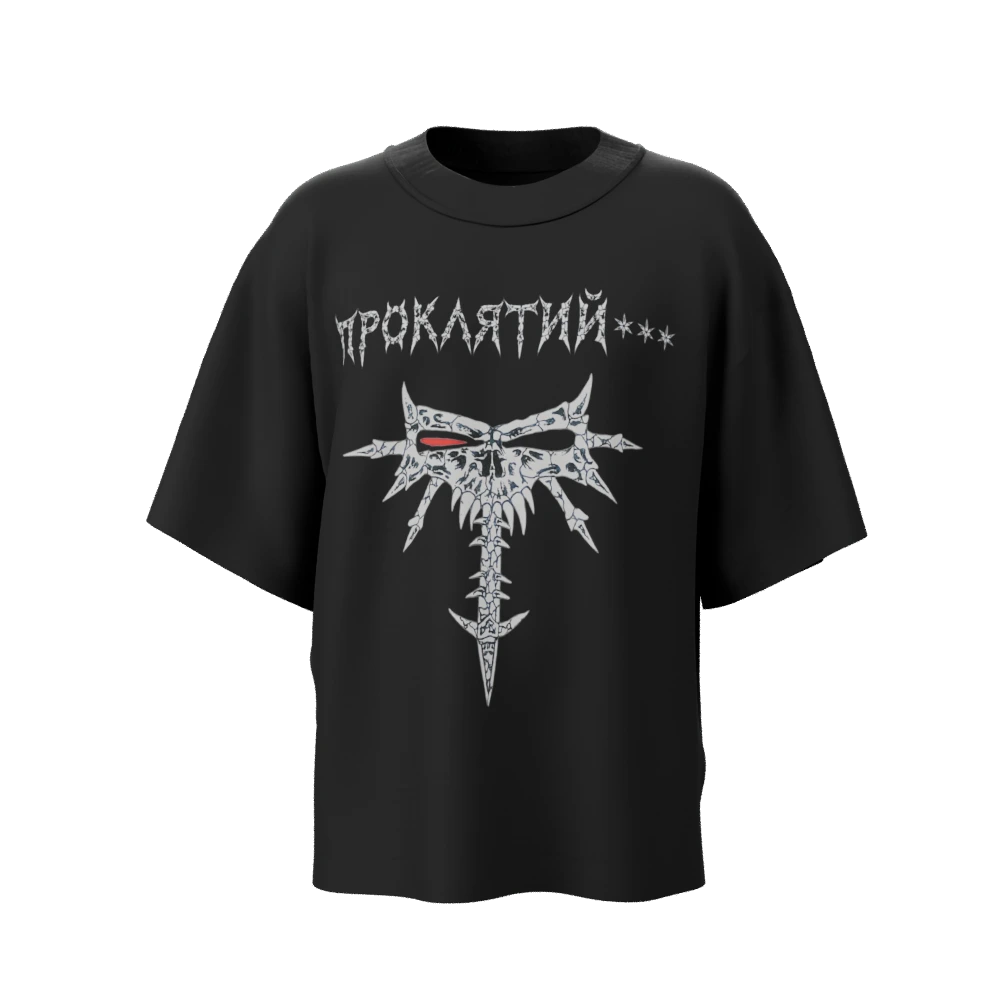
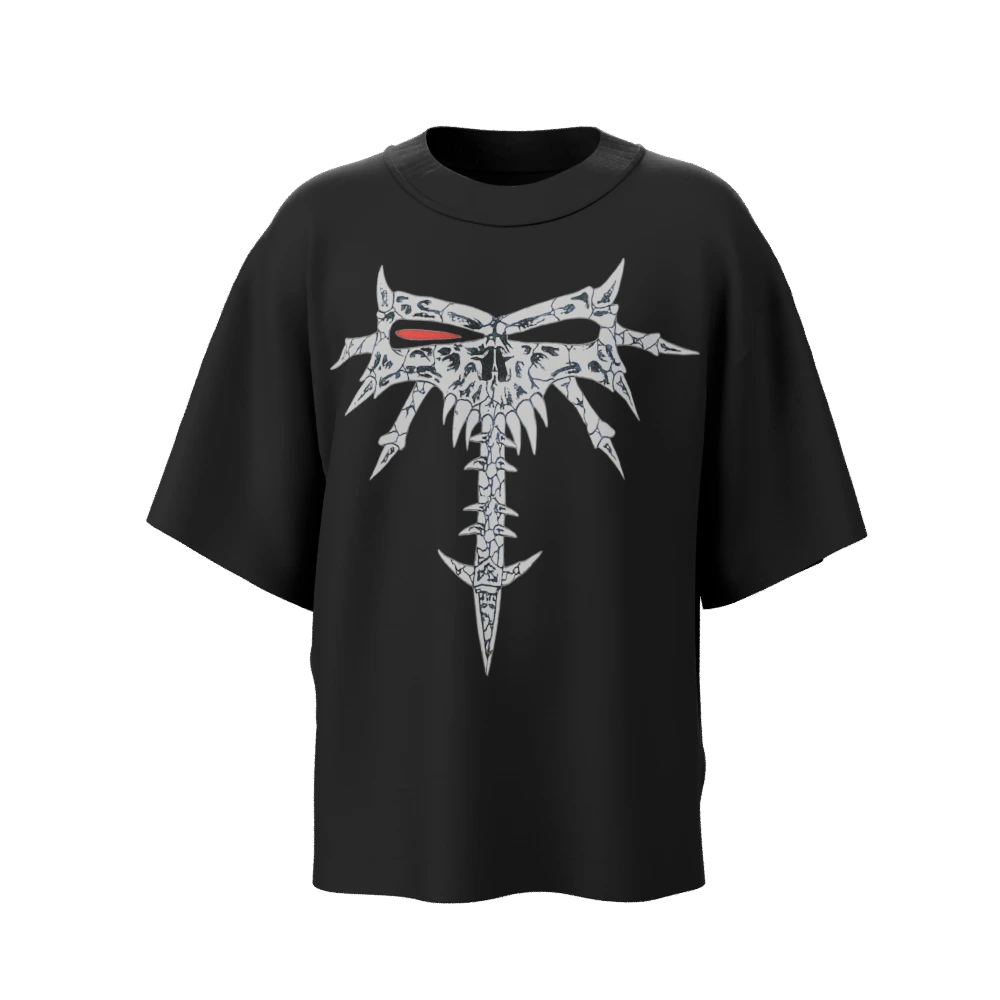
feat: enlarge tee prints and lead hoodie collection with full-chest rider

Changed region(s): [[0.341, 0.248, 0.713, 0.713]]

diff --git a/scripts/new-merch/build-uv.py b/scripts/new-merch/build-uv.py
@@ -22,12 +22,13 @@ def main():
             'webResolution':[4096,4096],'sourceDirectory':ROOT.name,
             'printScale':{'tshirt':{'front':.7,'back':.8},'hoodie':{'front':1,'back':1}},
             'tshirtAdjustments':{'6':{'frontScale':1.15,'frontShiftUp2048':32},
-                                 '9':{'frontShiftUp2048':32},'8':{'backScale':.8},'4':{'sleeveScale':.7}},
+                                 '9':{'frontShiftUp2048':32,'frontScale':1.15,'frontArtwork':'emblem-only'},'8':{'backScale':.8},
+                                 '7':{'backScale':1.2},'4':{'sleeveScale':.7}},
             'printAnchor':'original print center','designs':[]}
     collections=[]
     font=ImageFont.truetype('/System/Library/Fonts/Supplemental/Arial.ttf',24)
-    for kind,title,description in [('tshirt','футболяроки','Прокляті футболки для святих людей'),
-                                   ('hoodie','бобчанскі','Прокляті боби для святих людей')]:
+    for kind,title,description in [('tshirt','Футболярочки','Прокляті футболки для святих людей'),
+                                   ('hoodie','Бобчанскі','Прокляті боби для святих людей')]:
         description=f'{description}. {PRODUCTION_NOTE}'
         mask=mesh_mask(OUT/f'{kind}-mesh.json');mask.save(OUT/f'{kind}-uv-mask.png')
         public=FRONT/f'public/3d/textures/prokliatyi/new-merch';public.mkdir(parents=True,exist_ok=True)
@@ -55,6 +56,8 @@ def main():
                           'mapUrl':f'/3d/textures/prokliatyi/new-merch/{stem}.webp?v={entry["runtimeSha256"][:12]}',
                           'fallback':f'/assets/img/prokliatyi/new-merch/{stem}.webp'})
             print(f'{stem}: full UV {texture.width}, WebP {runtime.stat().st_size:,} bytes, coverage OK',flush=True)
+        if kind=='hoodie':
+            items=items[-1:]+items[:-1]
         collections.append({'key':f'prokliatyi-new-{kind}','title':title,'description':description,
                             'modelUrl':f'/3d/models/{"tshirt" if kind=="tshirt" else "hoodie-3"}.glb','items':items})
     layout=json.dumps(report,ensure_ascii=False,indent=2)+'\n'

diff --git a/scripts/new-merch/uv_layout.py b/scripts/new-merch/uv_layout.py
@@ -38,9 +38,10 @@ def atlas(kind,sides,mask2048,number,mesh_file=None):
         front_box=(220,150) if number==2 else (490,520)
         front_axis=870/3.875 if number==2 else 1290/3.875
         front_top=5480/3.875-(32 if number in (6,9) else 0)
-        front_scale=.7*(1.15 if number==6 else 1)
-        back_scale=.8*(.8 if number==8 else 1)
-        placement={'front':place(canvas,mask,sides['front'],front_box,front_axis,front_top,front_scale),
+        front_scale=.7*(1.15 if number in (6,9) else 1)
+        back_scale=.8*{7:1.2,8:.8}.get(number,1)
+        front_art=sides['front_key'] if number==9 else sides['front']
+        placement={'front':place(canvas,mask,front_art,front_box,front_axis,front_top,front_scale),
                    'back':place(canvas,mask,sides['back'],(568,605),3855/3.875,5090/3.875,back_scale)}
         if 'sleeve' in sides:
             placement['sleeve']=place(canvas,mask,sides['sleeve'],(190,110),6775/3.875,2900/3.875,

diff --git a/scripts/new-merch/prepare_artwork.py b/scripts/new-merch/prepare_artwork.py
@@ -119,7 +119,7 @@ def prepare(root, out):
         x0,y0,x1,y1=box
         part=ImageOps.contain(art,(x1-x0,y1-y0),Image.Resampling.LANCZOS)
         front.alpha_composite(part,(x0+(x1-x0-part.width)//2,y0))
-    assets[9]={'front':trim(front),'back':load(root/'футболка 9'/'спина.png')}
+    assets[9]={'front':trim(front),'front_key':emblem,'back':load(root/'футболка 9'/'спина.png')}
     for n,sides in assets.items():
         for side,im in sides.items(): im.save(prints/f'{n:02}-{side}.png')
     return assets

diff --git a/docs/new-merch.md b/docs/new-merch.md
@@ -1,6 +1,6 @@
 # Новий мерч / є. \*\*\*
 
-У `/prokliatyi` дві старі колекції замінено новими героями **«футболяроки»** (10 футболок) і **«бобчанскі»** (11 худі). Товари створюються в backend з розмірами **S, M, L, XL, XXL, XXXL**. З попередніх колекцій перенесено описи «Прокляті футболки для святих людей» і «Прокляті боби для святих людей» та нульові залишки. Ціни за останнім уточненням власника — **1200 / 2100 грн**, включно з усіма розмірами. Старі записи знімаються з вітрини через `isActive=false` і `deletedAt`, зі збереженням історії.
+У `/prokliatyi` дві старі колекції замінено новими героями **«Футболярочки»** (10 футболок) і **«Бобчанскі»** (11 худі). Товари створюються в backend з розмірами **S, M, L, XL, XXL, XXXL**. З попередніх колекцій перенесено описи «Прокляті футболки для святих людей» і «Прокляті боби для святих людей» та нульові залишки. Ціни за останнім уточненням власника — **1200 / 2100 грн**, включно з усіма розмірами. Старі записи знімаються з вітрини через `isActive=false` і `deletedAt`, зі збереженням історії.
 
 ## Як працює проєкт
 
@@ -32,6 +32,8 @@
 Оновлення 2026-10-13: футболки мають **70%** попередньої ширини й висоти спереду та **80%** ззаду, навколо попередніх центрів. На худі 01–10 обидва боки повернуті до **100%** початкового розміру. Генератор працює з оригінальними принтами без накопичення масштабування. `layout-before-print-resize.json` у локальній папці генератора містить початкові координати. URL вебтекстур та постерів мають хеш версії.
 
 Фінальні правки **лише футболок**: кістяну емблему №09 і вершника №06 піднято на 32 px у координатах 2048². Вершник збільшений на 15% від зменшеної версії, навколо центру. Спина №08 зменшена ще на 20%, рукав №04 — на 30%, зі збереженням центрів. Худі цими правками не змінюються.
+
+Наступне уточнення: принт на спині футболки №07 «Щільний Дріл / Ніжна Оксана» збільшено ще на 20% навколо його центру. На футболці №09 із переду прибрано напис, залишено оригінальний окремий `emblem.png` та збільшено його до того самого розміру зони, що у вершника №06. Худі №09 зберігає свій напис. У «Бобчанскі» першим стоїть №11 «Проклятий вершник / на всі груди»; номери текстур залишаються ідентифікаторами дизайнів і не залежать від порядку в колекції.
 
 - Футболка: чинна `public/3d/models/tshirt.glb`. Перед — ліва деталь, спина — середня. Права велика деталь — внутрішня поверхня спини; вона лишається чорна. Це перевірено по геометрії та рендерах.
 - Худі: чинна `public/3d/models/hoodie-3.glb`. Звичайний перед розміщений над кишенею в межах y 662–837; спина нижче капюшона, y 106–502 і ширина до 250, у координатах 2048². Для дизайну 04 перенесений і рукавний принт. У №11 один принт проєктується за X/Y геометрії на груди й окремий UV-острів кишені через `project_print.py`, тому лінії збігаються на її шві.

diff --git a/docs/superpowers/plans/2026-10-13-new-merch.md b/docs/superpowers/plans/2026-10-13-new-merch.md
@@ -59,3 +59,7 @@ All 20 garments were regenerated with fronts at 70% and backs at 80% of the init
 Останнє уточнення: лише на футболках підняти №09 і №06 на 32 UV-пікселі (2048²), №06 збільшити на 15%, спину №08 зменшити на 20%, рукав №04 — на 30%. Ціни нових футболок 1200 грн, бобів 2100 грн у товарі й кожному варіанті. Перегенерувати атласи/рендери, перевірити точні відносні зміни й незмінність усіх худі, оновити фото, push, перевірка прод-версії та ціни в API/браузері.
 
 Обидва описи доповнити текстом: «Виготовлення боб — до 7 днів під обстрілами, але ми вас любимо».
+
+Збільшити спину футболки №07 на 20% від поточного розміру зі збереженням центру. У худі переставити №11 «Проклятий вершник / на всі груди» першим і синхронізувати `collectionOrder` у базі. Перевірити масштаб, UV-маску, незмінність інших текстур та порядок героя на сайті, push до v2.
+
+Фінальні назви колекцій — «Футболярочки» і «Бобчанскі». На футболці №09 прибрати нагрудний напис та використати оригінальний окремий логотип-ключ на всій передній зоні, як у вершника №06; худі не змінювати.
